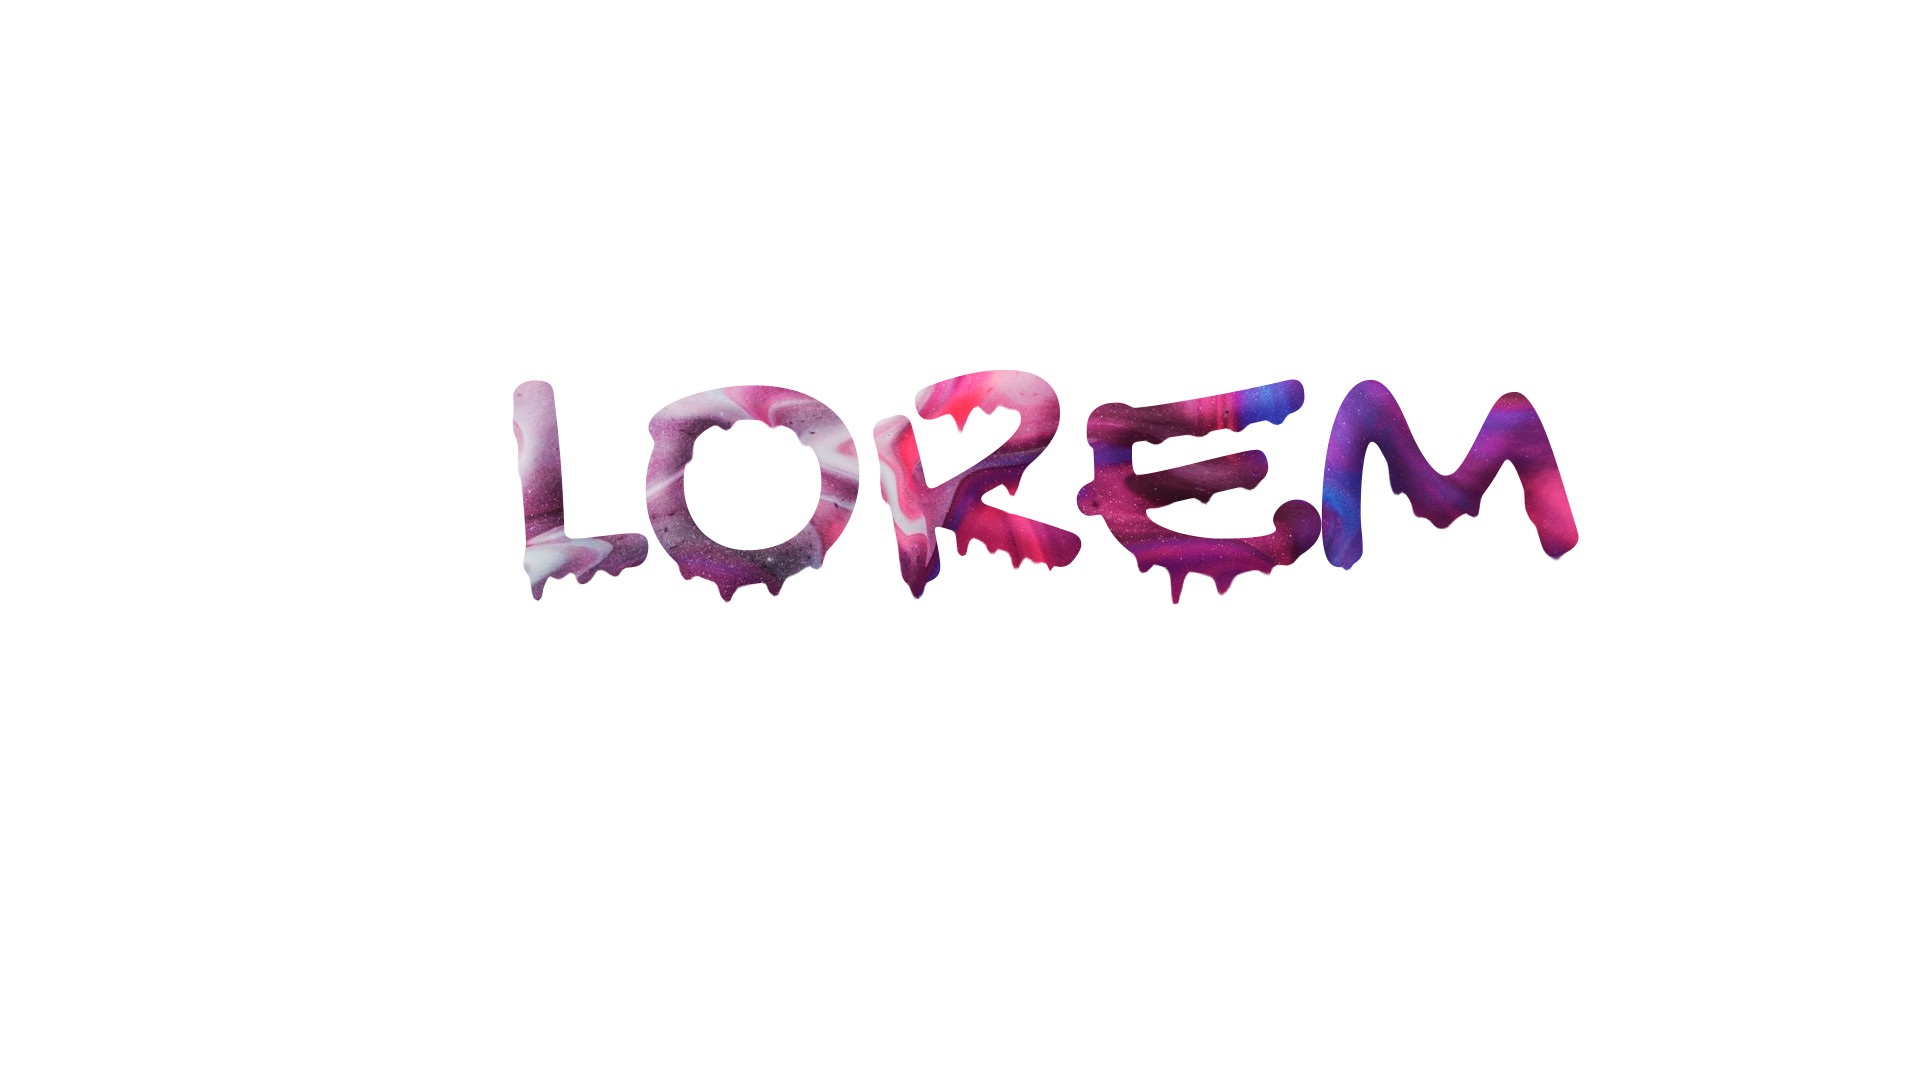
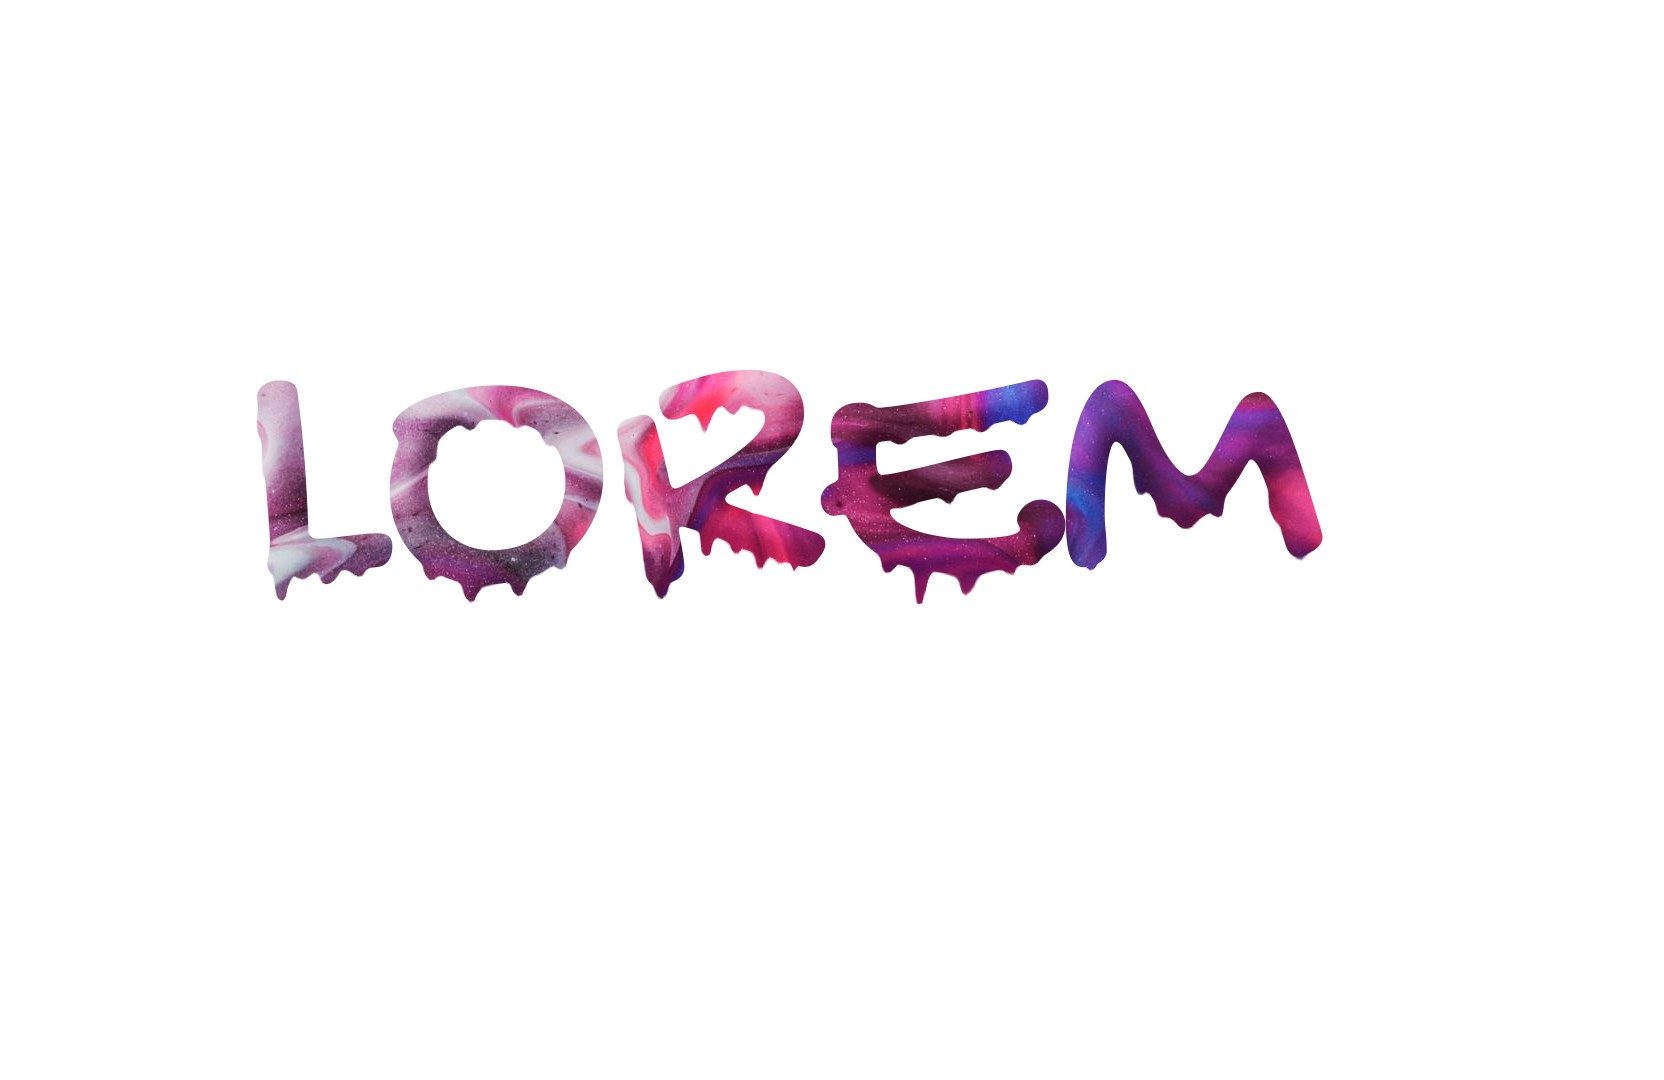
update Basics CG

Changed region(s): [[0.1562, 0.3361, 0.8438, 0.55]]

diff --git a/Basics_of_computer_graphics/PHOTOSHOP/BusinessCard/README.md b/Basics_of_computer_graphics/PHOTOSHOP/BusinessCard/README.md
@@ -1,0 +1,19 @@
+# Визитные карточки
+
+## Дизайн визитки
+
+### Лицевая сторона
+![Alt text](litsevaya-storona.jpg)
+
+### Задняя сторона
+![Alt text](zadnyaya-storona.jpg)
+
+## Мокапы
+
+### Первый
+
+![Alt text](mockup1.jpg)
+
+### Второй
+
+![Alt text](mockup2.jpg)

diff --git a/Basics_of_computer_graphics/PHOTOSHOP/working with brushes and shadows/README.md b/Basics_of_computer_graphics/PHOTOSHOP/working with brushes and shadows/README.md
@@ -1,0 +1,5 @@
+# Работа с кистями
+
+> Сделано с помощью собственноручной созданной кисти
+
+![Alt text](work.jpg)

diff --git a/Basics_of_computer_graphics/PHOTOSHOP/VK group design/README.md b/Basics_of_computer_graphics/PHOTOSHOP/VK group design/README.md
@@ -1,0 +1,9 @@
+# Дизайн группы вк
+
+## Аватар
+
+![Alt text](avatar.jpg)
+
+## Шапка-баннер
+
+![Alt text](shapka-banner.jpg)

diff --git a/Basics_of_computer_graphics/PHOTOSHOP/creating a sphere/README.md b/Basics_of_computer_graphics/PHOTOSHOP/creating a sphere/README.md
@@ -1,0 +1,7 @@
+# Сфера
+
+## Вариант 1
+![Alt text](sfera.jpg)
+
+## Вариант 2
+![Alt text](sphere.jpg)

diff --git a/Basics_of_computer_graphics/PHOTOSHOP/YouTube covers/README.md b/Basics_of_computer_graphics/PHOTOSHOP/YouTube covers/README.md
@@ -1,0 +1,3 @@
+# Обложка для видеоролика YouTube
+
+![Alt text](oblozhka.jpg)

diff --git a/Basics_of_computer_graphics/PHOTOSHOP/fabulous collage/README.md b/Basics_of_computer_graphics/PHOTOSHOP/fabulous collage/README.md
@@ -1,0 +1,3 @@
+# Сказочных коллаж
+
+![Alt text](skazochnyy-kollazh.jpg)

diff --git a/Basics_of_computer_graphics/PHOTOSHOP/letters/README.md b/Basics_of_computer_graphics/PHOTOSHOP/letters/README.md
@@ -1,0 +1,3 @@
+# Буквы поплыли
+
+![Alt text](effekt-razmytykh-bukv.jpg)

diff --git a/Basics_of_computer_graphics/PHOTOSHOP/motion blur/README.md b/Basics_of_computer_graphics/PHOTOSHOP/motion blur/README.md
@@ -1,0 +1,3 @@
+# Размытое движение
+
+![Alt text](pic.jpg)

diff --git a/Basics_of_computer_graphics/PHOTOSHOP/Фэнтэзи (а-ля самурай)/README.md b/Basics_of_computer_graphics/PHOTOSHOP/Фэнтэзи (а-ля самурай)/README.md
@@ -1,0 +1,3 @@
+# Фэнтэзи 
+
+![Alt text](fantasy.png)

diff --git a/Basics_of_computer_graphics/PHOTOSHOP/glassmorphism/README.md b/Basics_of_computer_graphics/PHOTOSHOP/glassmorphism/README.md
@@ -1,0 +1,3 @@
+# Glassmorphism
+
+![Alt text](example.jpg)
